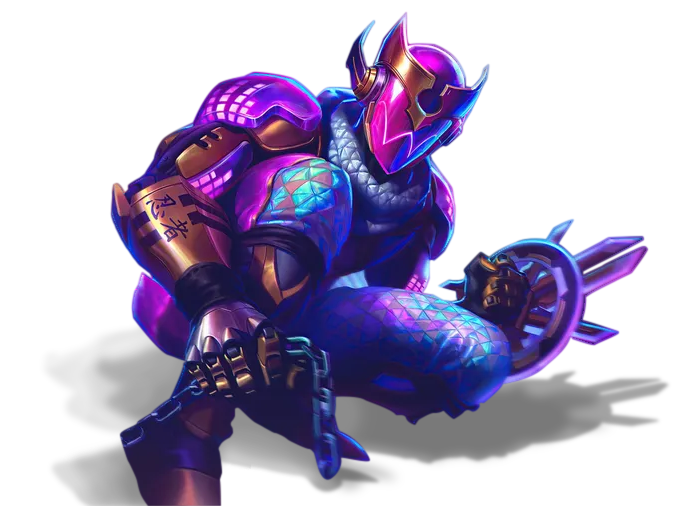
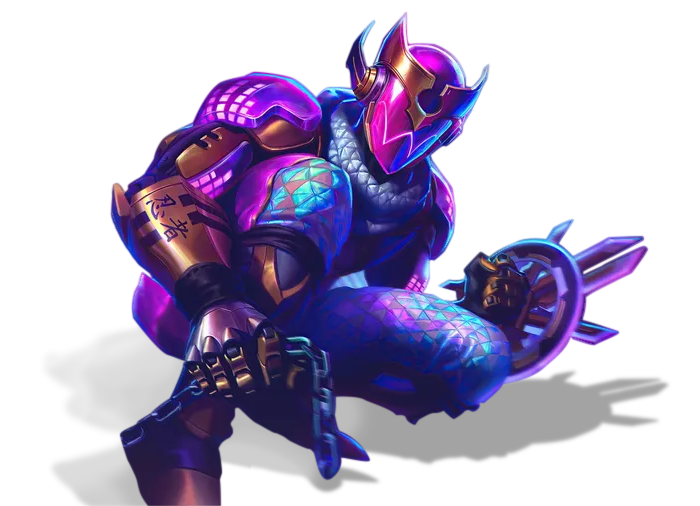
Finalizando estilos

diff --git a/client/src/Components/Landing/Landing.jsx b/client/src/Components/Landing/Landing.jsx
@@ -19,7 +19,7 @@ const Landing = () => {
       </div>
         
       <div className={style.leftImages}>
-        <img className={style.dragon} src={'../../../src/z_imagesFonts/Images/Gilr and dragon 1.png'} />
+        <img className={style.dragon} src={'../../../src/z_imagesFonts/Images/Gilr and dragon.png'} />
         <img className={style.warrior} src={'../../../src/z_imagesFonts/Images/Wariioire.png'} />
       </div>
     </>

diff --git a/client/src/Components/Landing/Landing.module.css b/client/src/Components/Landing/Landing.module.css
@@ -12,7 +12,7 @@
 }
 
 .dragon{
-  height: 40%;
+  height: 42%;
   position: absolute;
   left: 0;
   top: 0;
